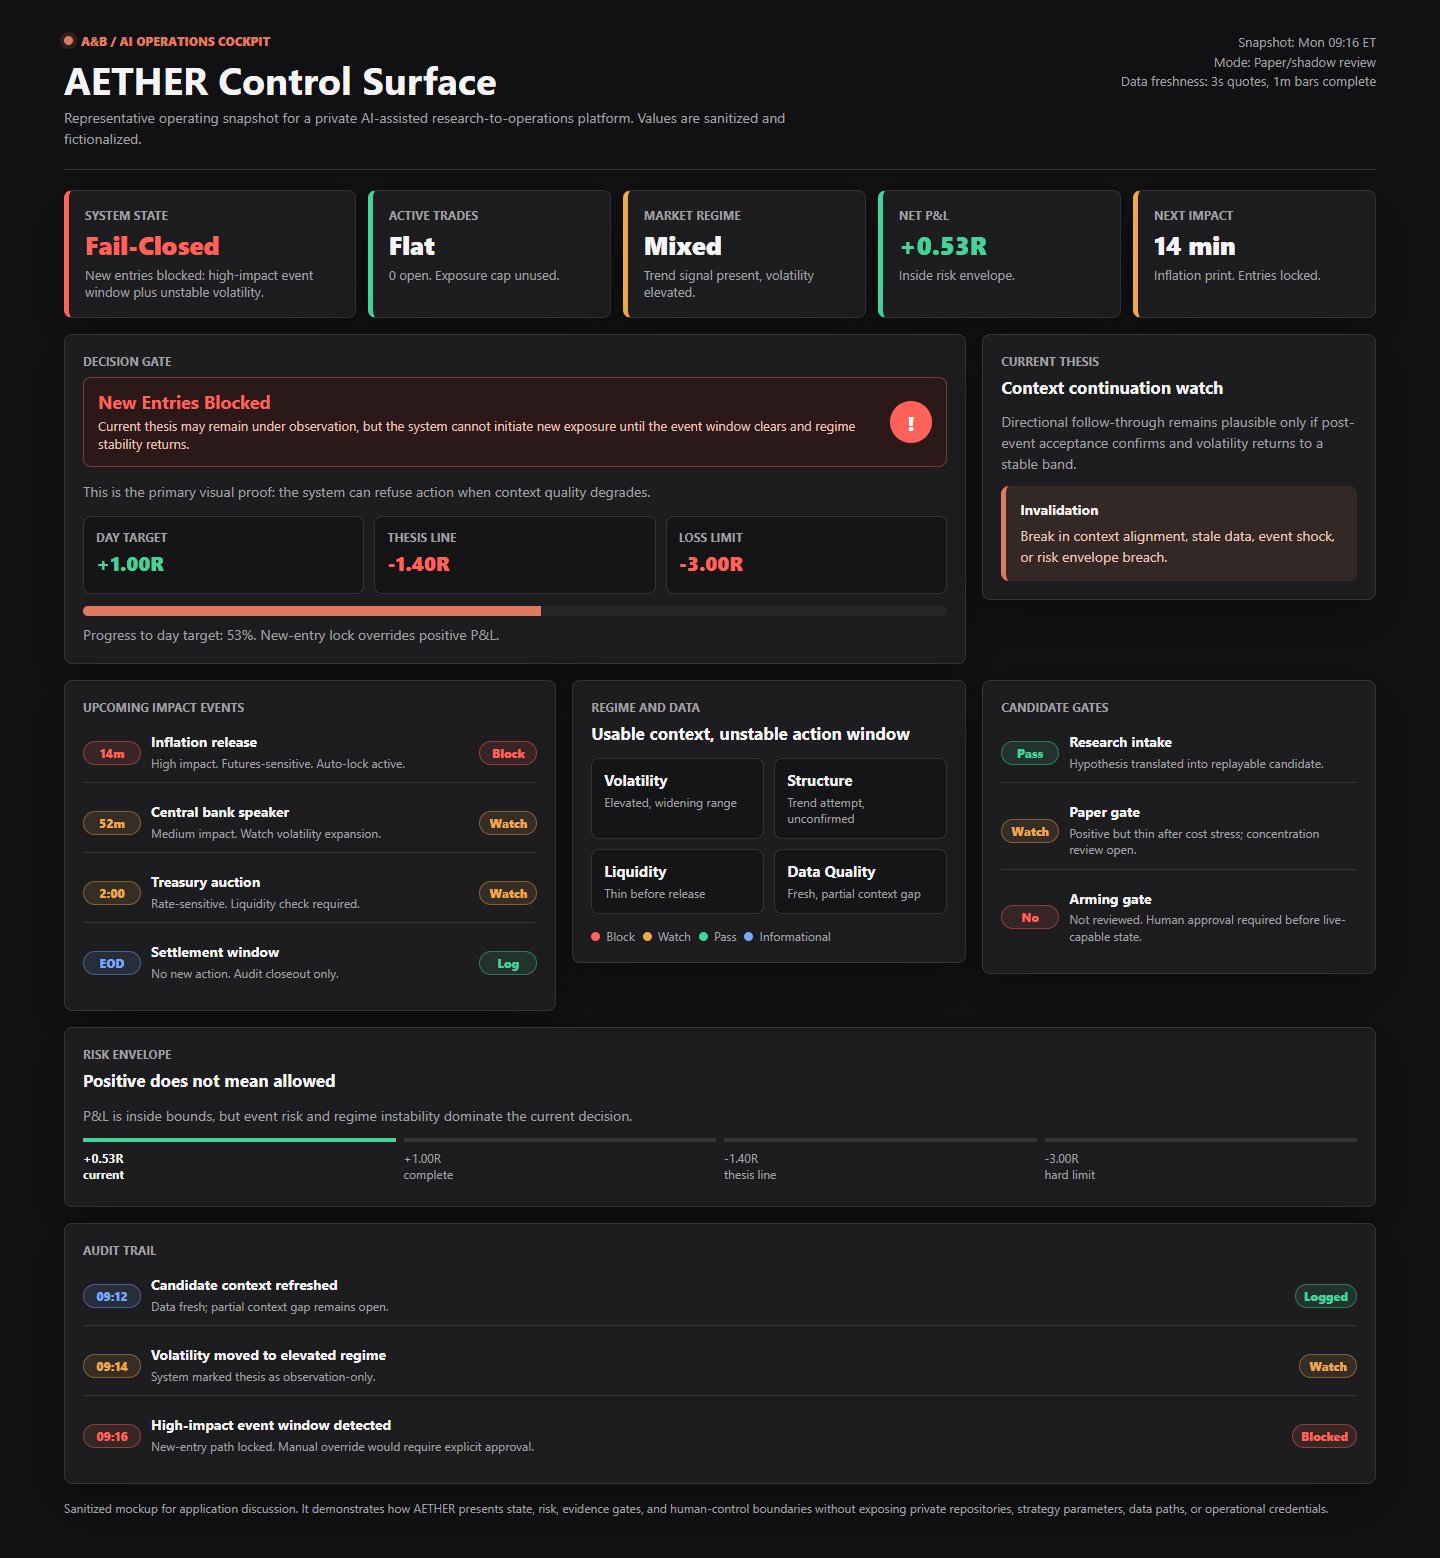
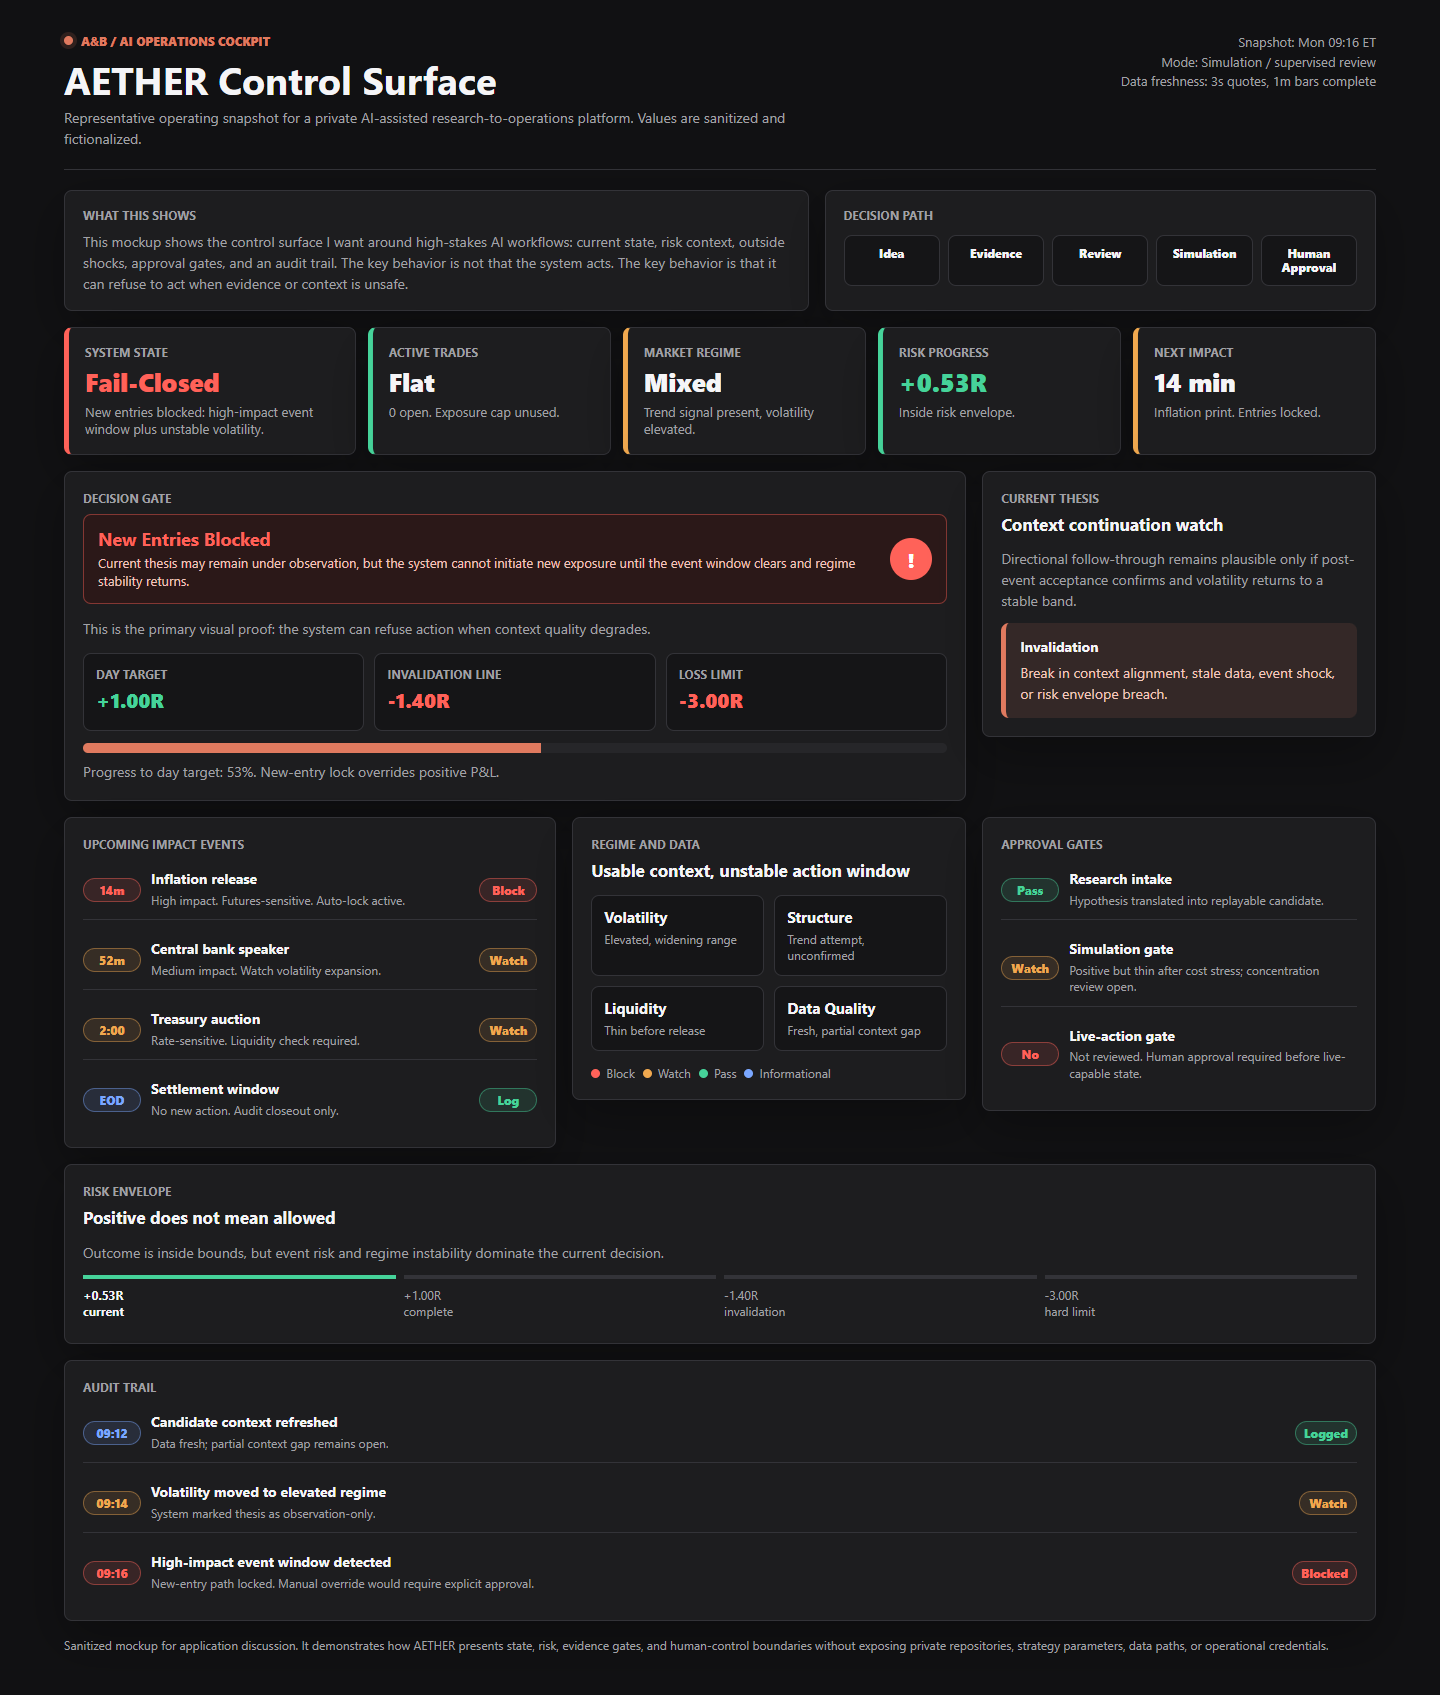
Clarify control surface for outside reviewers

diff --git a/control-surface.html b/control-surface.html
@@ -102,6 +102,13 @@
       margin-bottom: 16px;
     }
 
+    .framing-strip {
+      display: grid;
+      grid-template-columns: 1.35fr 1fr;
+      gap: 16px;
+      margin-bottom: 16px;
+    }
+
     .tile,
     .panel {
       background: var(--surface);
@@ -164,6 +171,11 @@
       min-height: 220px;
     }
 
+    .explain-panel {
+      min-height: auto;
+      padding: 16px 18px;
+    }
+
     .panel h2 {
       margin: 0 0 14px;
       font-size: 17px;
@@ -176,6 +188,26 @@
       color: var(--muted);
       font-size: 14px;
       line-height: 1.5;
+    }
+
+    .pipeline {
+      display: grid;
+      grid-template-columns: repeat(5, minmax(0, 1fr));
+      gap: 8px;
+      margin-top: 12px;
+    }
+
+    .pipeline span {
+      display: block;
+      border: 1px solid var(--line);
+      border-radius: 8px;
+      padding: 10px;
+      background: var(--surface-3);
+      color: var(--ink);
+      font-size: 12px;
+      font-weight: 800;
+      line-height: 1.2;
+      text-align: center;
     }
 
     .wide {
@@ -483,6 +515,7 @@
 
     @media (max-width: 1080px) {
       .status-strip,
+      .framing-strip,
       .main-grid {
         grid-template-columns: repeat(2, minmax(0, 1fr));
       }
@@ -509,9 +542,11 @@
       }
 
       .status-strip,
+      .framing-strip,
       .main-grid,
       .metrics,
-      .regime-grid {
+      .regime-grid,
+      .pipeline {
         grid-template-columns: 1fr;
       }
 
@@ -539,10 +574,27 @@
       </div>
       <div class="timestamp">
         Snapshot: Mon 09:16 ET<br>
-        Mode: Paper/shadow review<br>
+        Mode: Simulation / supervised review<br>
         Data freshness: 3s quotes, 1m bars complete
       </div>
     </header>
+
+    <section class="framing-strip" aria-label="Cold reviewer framing">
+      <article class="panel explain-panel">
+        <span class="label">What This Shows</span>
+        <p>This mockup shows the control surface I want around high-stakes AI workflows: current state, risk context, outside shocks, approval gates, and an audit trail. The key behavior is not that the system acts. The key behavior is that it can refuse to act when evidence or context is unsafe.</p>
+      </article>
+      <article class="panel explain-panel">
+        <span class="label">Decision Path</span>
+        <div class="pipeline" aria-label="Idea to live-capable action path">
+          <span>Idea</span>
+          <span>Evidence</span>
+          <span>Review</span>
+          <span>Simulation</span>
+          <span>Human Approval</span>
+        </div>
+      </article>
+    </section>
 
     <section class="status-strip" aria-label="Operating state summary">
       <article class="tile state-fail">
@@ -561,7 +613,7 @@
         <div class="note">Trend signal present, volatility elevated.</div>
       </article>
       <article class="tile state-ok">
-        <span class="label">Net P&amp;L</span>
+        <span class="label">Risk Progress</span>
         <div class="value positive">+0.53R</div>
         <div class="note">Inside risk envelope.</div>
       </article>
@@ -589,7 +641,7 @@
             <div class="v positive">+1.00R</div>
           </div>
           <div class="metric">
-            <div class="k">Thesis Line</div>
+            <div class="k">Invalidation Line</div>
             <div class="v negative">-1.40R</div>
           </div>
           <div class="metric">
@@ -681,7 +733,7 @@
       </article>
 
       <article class="panel">
-        <span class="label">Candidate Gates</span>
+        <span class="label">Approval Gates</span>
         <ul class="gate-list">
           <li class="gate">
             <span class="status-pill pass">Pass</span>
@@ -693,14 +745,14 @@
           <li class="gate">
             <span class="status-pill watch">Watch</span>
             <div>
-              <div class="gate-title">Paper gate</div>
+              <div class="gate-title">Simulation gate</div>
               <div class="gate-meta">Positive but thin after cost stress; concentration review open.</div>
             </div>
           </li>
           <li class="gate">
             <span class="status-pill blocked">No</span>
             <div>
-              <div class="gate-title">Arming gate</div>
+              <div class="gate-title">Live-action gate</div>
               <div class="gate-meta">Not reviewed. Human approval required before live-capable state.</div>
             </div>
           </li>
@@ -710,11 +762,11 @@
       <article class="panel full risk-panel">
         <span class="label">Risk Envelope</span>
         <h2>Positive does not mean allowed</h2>
-        <p>P&amp;L is inside bounds, but event risk and regime instability dominate the current decision.</p>
+        <p>Outcome is inside bounds, but event risk and regime instability dominate the current decision.</p>
         <div class="risk-scale">
           <div class="risk-step current">+0.53R<br>current</div>
           <div class="risk-step">+1.00R<br>complete</div>
-          <div class="risk-step">-1.40R<br>thesis line</div>
+          <div class="risk-step">-1.40R<br>invalidation</div>
           <div class="risk-step">-3.00R<br>hard limit</div>
         </div>
       </article>
